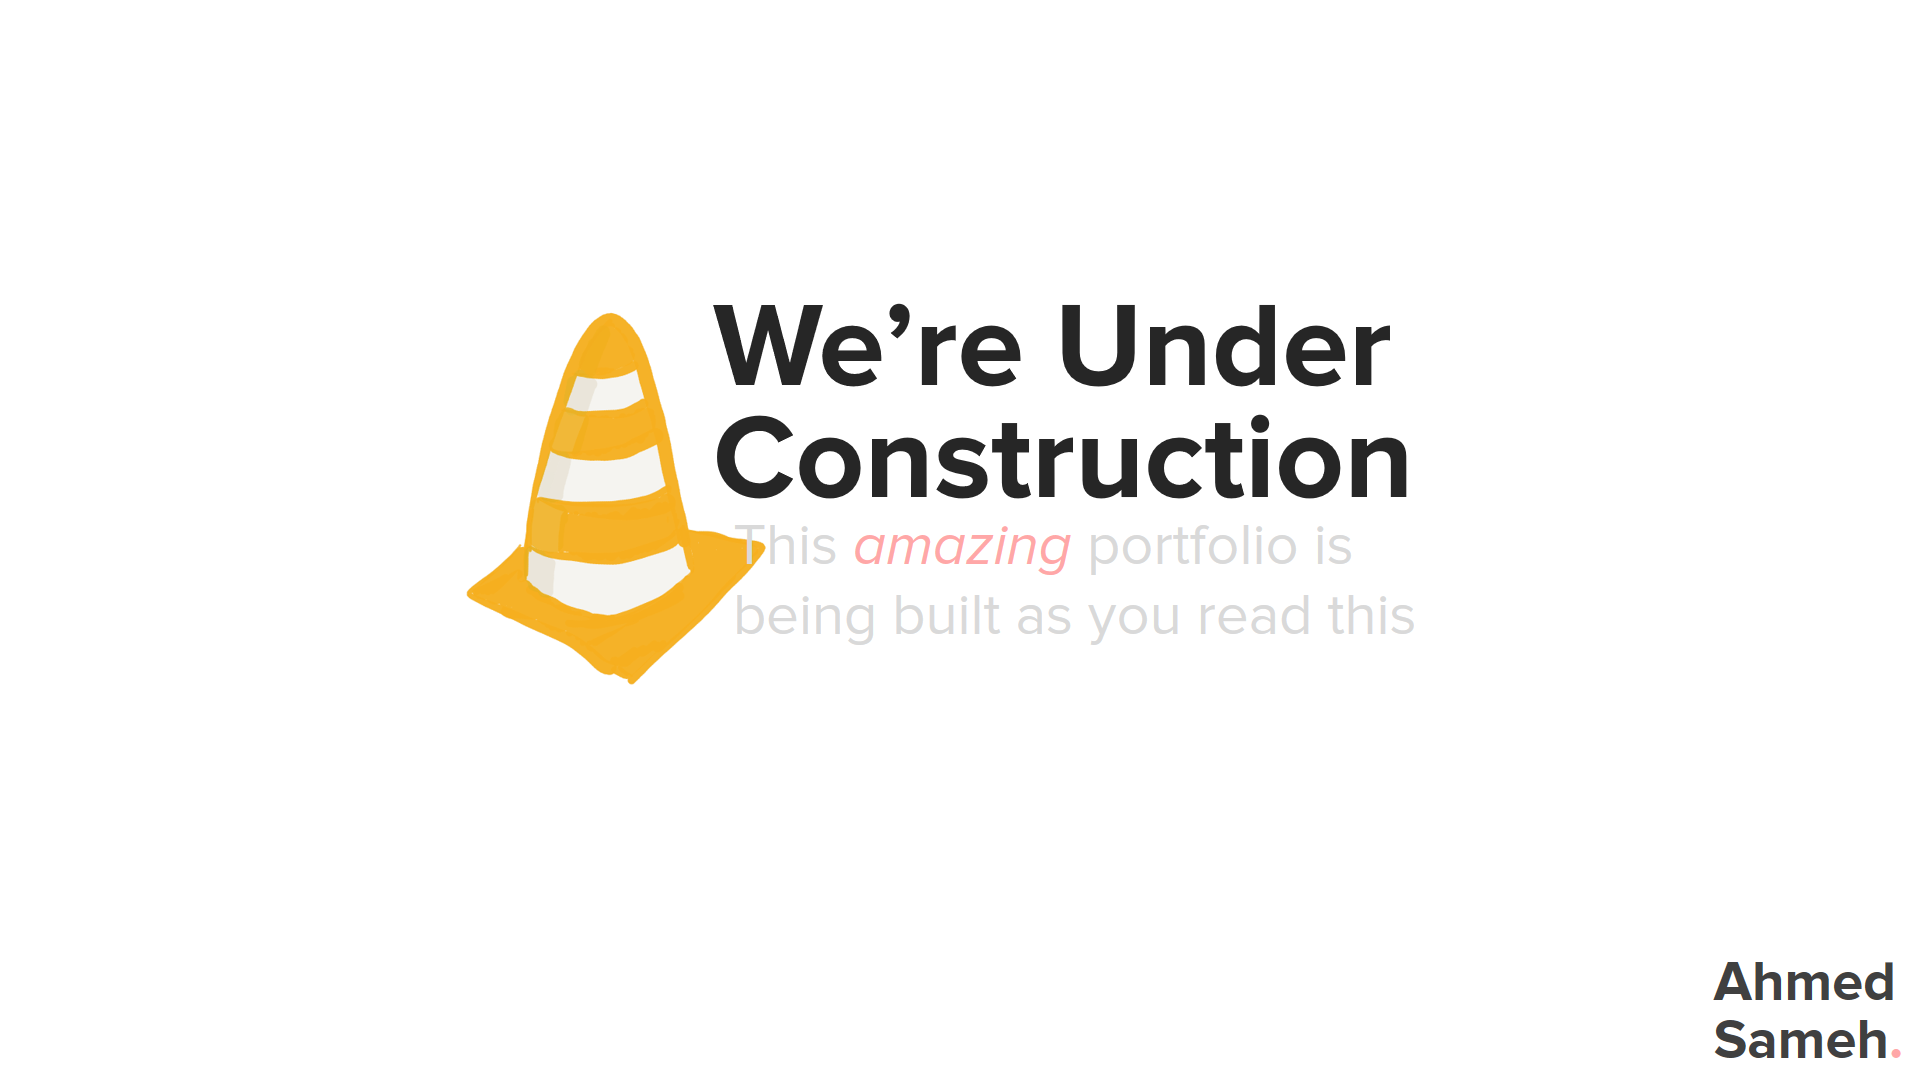
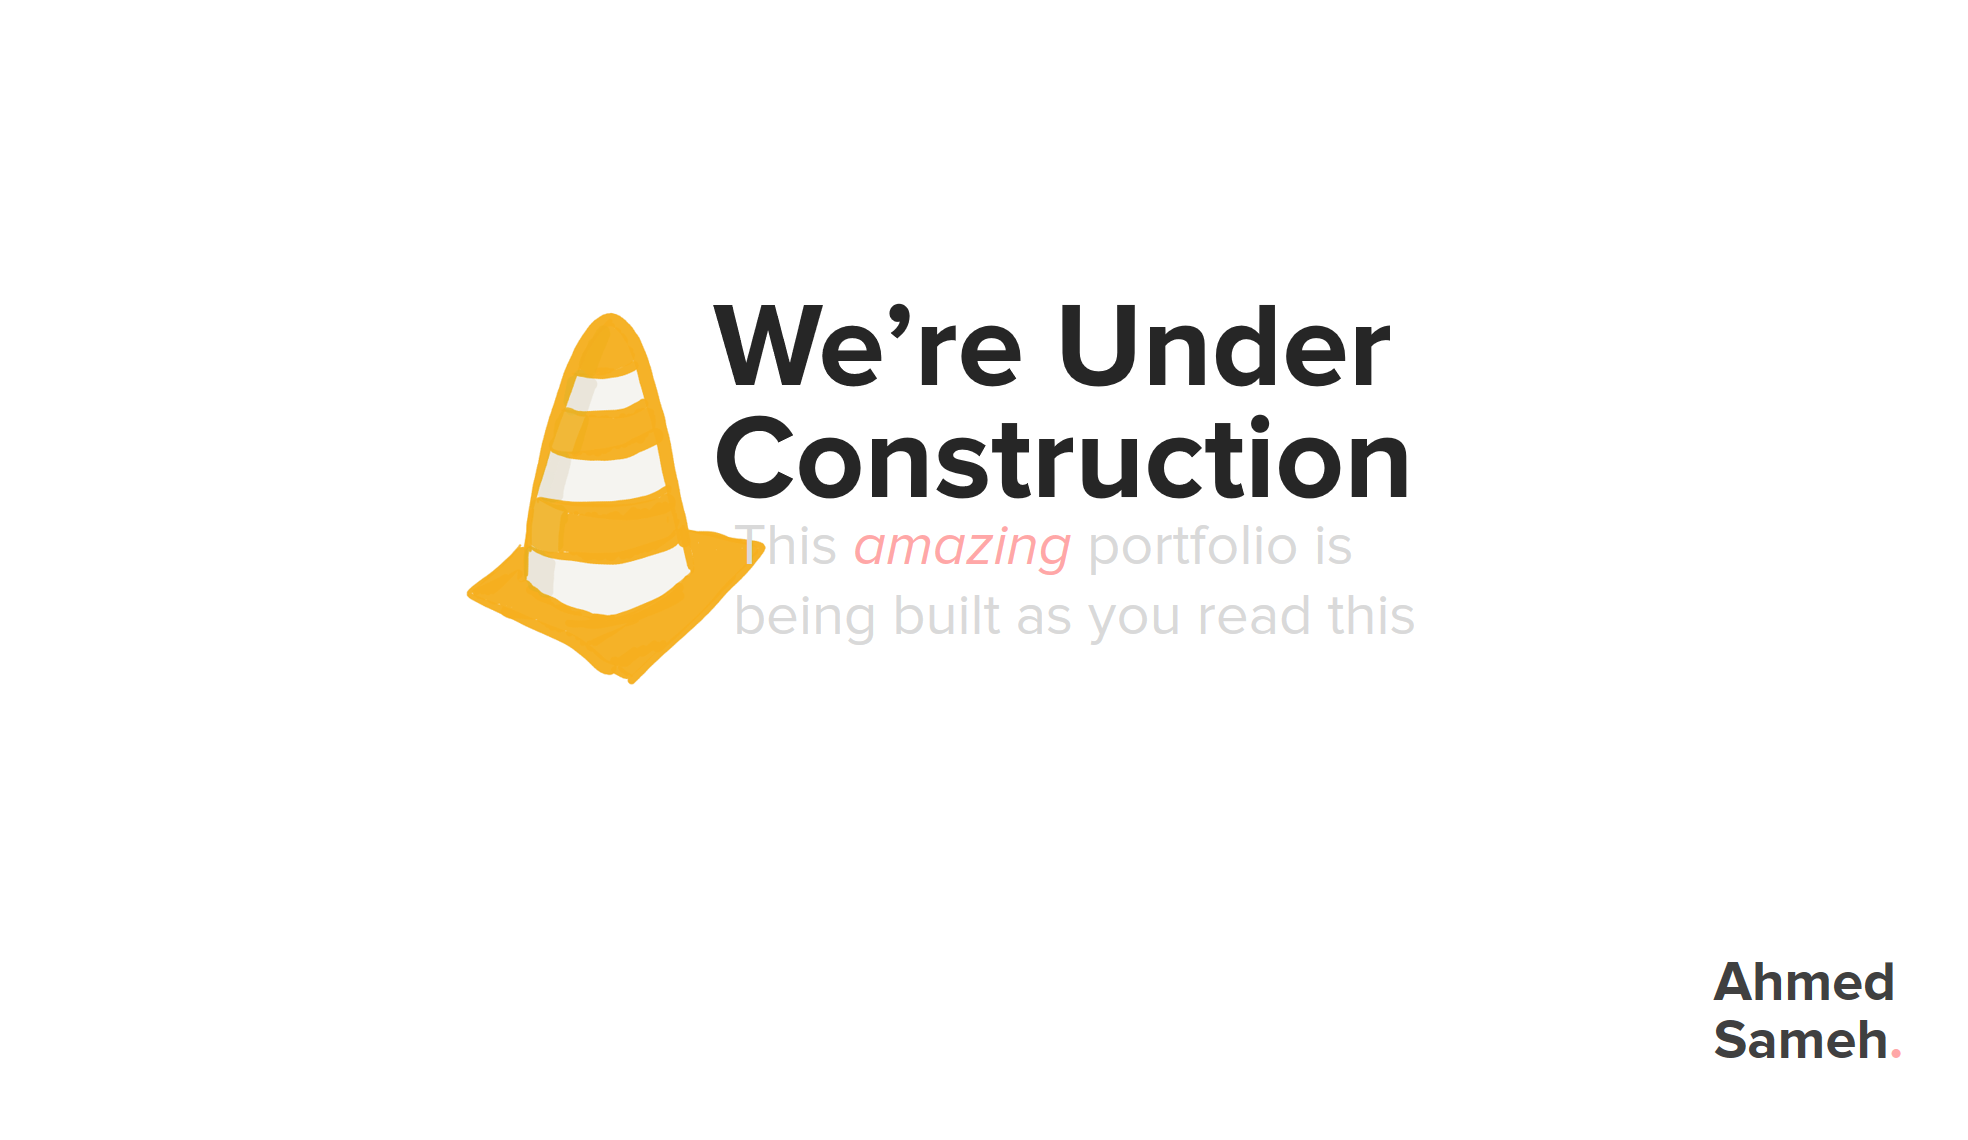
new main

Changed region(s): [[0.2188, 0.275, 0.75, 0.6417], [0.875, 0.825, 1.0, 0.9778]]

diff --git a/index.html b/index.html
@@ -25,8 +25,9 @@
 
 <div class="row h-100" >
 
-    <div class="card animated fadeInRight w-100"  style="background-image:url('underconstpic.png');background-position: center; background-size: 70em;background-repeat: no-repeat; margin-left:2%;margin-top:2%;margin-right:2%; border-radius:25px; border-color:white;height:92%;">
+    <div class="card animated fadeInRight w-100"  style="background-image: url('underconstpic.png');background-size: contain;background-position: center;background-repeat: no-repeat;margin-left:2%;margin-top:2%;margin-right:2%; border-radius:25px; border-color:white;height:92%;">
       <div class="card-body">
+
       </div>
     </div>
 
